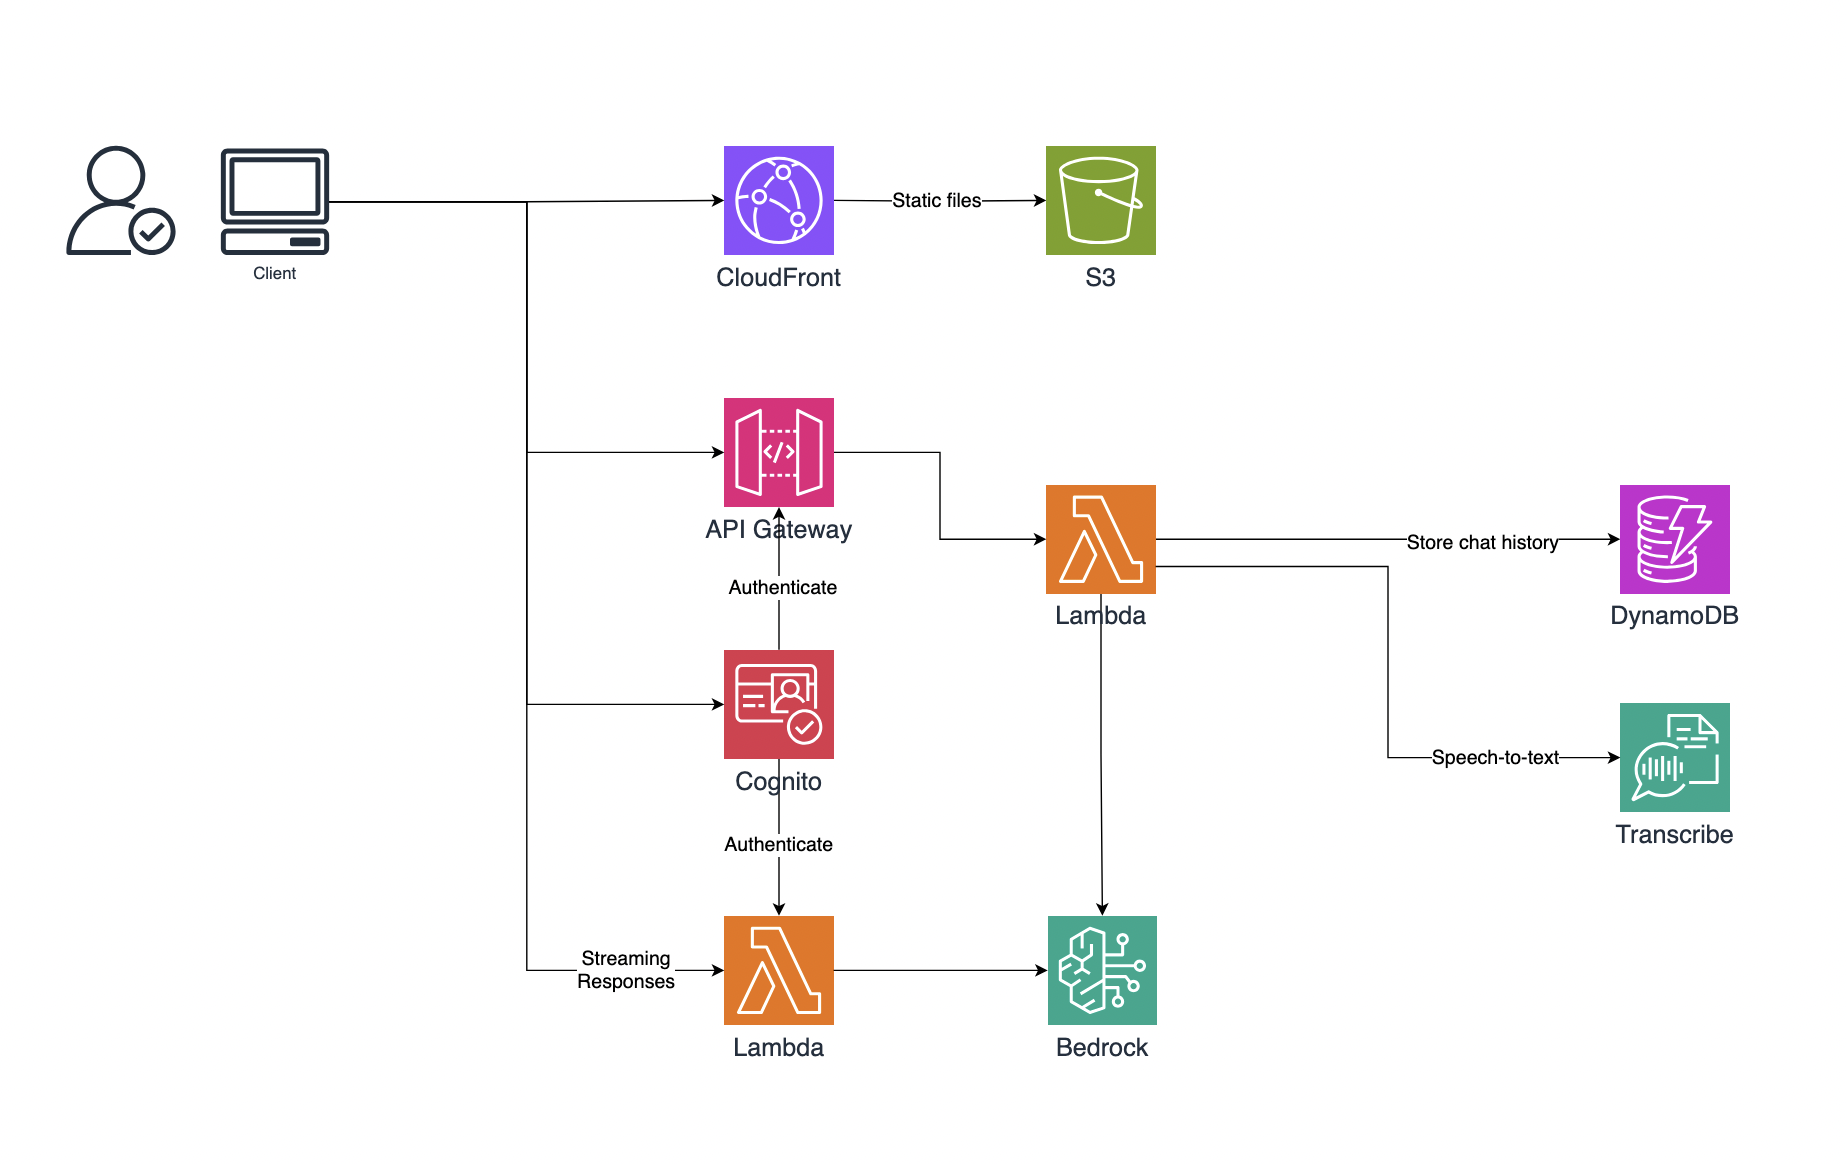
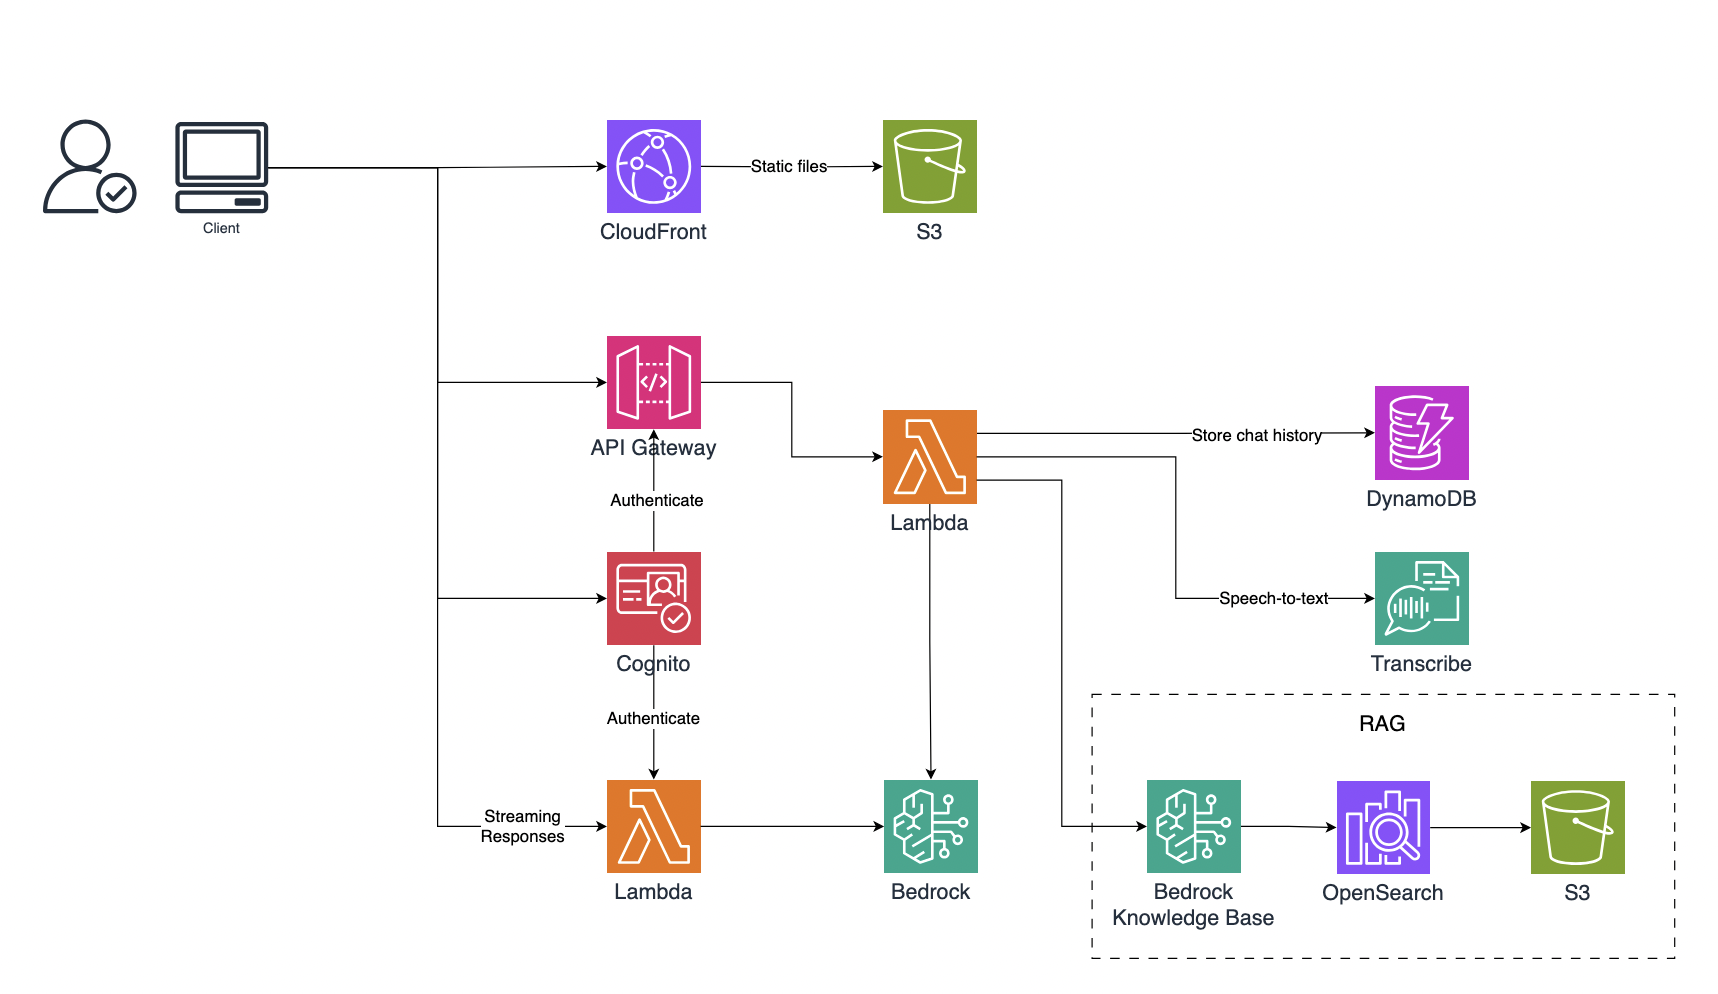
Initial setup commands for building Bedrock

diff --git a/How to setup Bedrock.md b/How to setup Bedrock.md
@@ -1,0 +1,108 @@
+# 1: Create EC2
+
+(Skipped)
+
+# 2: Install middlewares
+
+## Install Git
+
+```zsh
+sudo yum update -l
+sudo yum install git
+```
+
+## Download the environment for GenU
+
+Repo URL: https://github.com/aws-samples/generative-ai-use-cases-jp
+
+```zsh
+git clone --branch v2.0.0 https://github.com/aws-samples/generative-ai-use-cases-jp.git
+```
+
+## Install Node.js
+
+```zsh
+curl -sL https://rpm.nodesource.com/setup_18.x | sudo bash - 
+sudo yum install -y nodejs-18.20.2
+```
+
+# 3: Modify the configuration files to enable Bedrock
+
+Move to the directory.
+
+```zsh
+cd generative-ai-use-cases-jp/
+```
+
+Edit `packages/cdk/cdk.json` like the below.
+
+```json
+"modelRegion": "us-east-1",
+"modelIds": ["anthropic.claude-3-sonnet-20240229-v1:0"],
+"imageGenerationModelIds": ["stability.stable-diffusion-xl-v1"],
+```
+
+Open Bedrock service on AWS Management Console and enable the target FM (Anthropic Claude 3 Sonnet)
+
+![Enable Claude 3 Sonnet](./assets/for_markdown/enable_anthropic_claude_3_sonnet.png)
+
+# 4: Initial deployment
+
+- Clean up the dependencies in Nodejs project & install
+- CDK boostrap by using AWS CDK
+- Start the deployment of AWS CDK project
+
+```zsh
+npm ci
+npx -w packages/cdk cdk bootstrap
+npm run cdk:deploy
+```
+
+# 5: Enable RAG
+
+Move to the directory.
+
+```zsh
+cd generative-ai-use-cases-jp/
+```
+
+- Edit `packages/cdk/cdk.json` like the below.
+- `ragKnowledgeBaseStandbyReplicas` controls the redundancy for OpenSearch Serverless.
+- `ragKnowledgeBaseAdvancedParsing` controls to extract the unconstructed data such as matrix tables, graphs and etc.
+
+```json
+"ragKnowledgeBaseEnabled": true,
+"ragKnowledgeBaseStandbyReplicas": false,
+"ragKnowledgeBaseAdvancedParsing": false,
+"ragKnowledgeBaseAdvancedParsingModelId": "anthropic.claude-3-sonnet-20240229-v1:0",
+"embeddingModelId": "amazon.titan-embed-text-v2:0",
+```
+
+# 6: Configure Chunk
+
+Move to the directory.
+
+```zsh
+cd packages/cdk/lib/rag-knowledge-base-stack.ts
+```
+
+Edit the following parameter such like the below.
+
+```ts
+  chunkingStrategy: 'SEMANTIC', // SEMANTIC, FIXED_SIZE, HIERARCHICAL are available
+```
+
+# 7: Initial deployment
+
+- Re-deploy
+
+```zsh
+npm ci
+npx -w packages/cdk cdk bootstrap # it's possible to skip this line if you've already run it
+npm run cdk:deploy
+```
+
+# 8: Sync data sources
+
+- `packages/cdk/rag-docs/docs` will be uploaded to S3 when the deployment occurs.
+- So please re-sync docs via Knowledge Base Console after the deployment is completed.

diff --git a/README.md b/README.md
@@ -1,4 +1,5 @@
 # Welcome to my genU demo app!
+
 This is a demo Generative AI application built with AWS Bedrock managed by @su3-hokkaido
 
 
